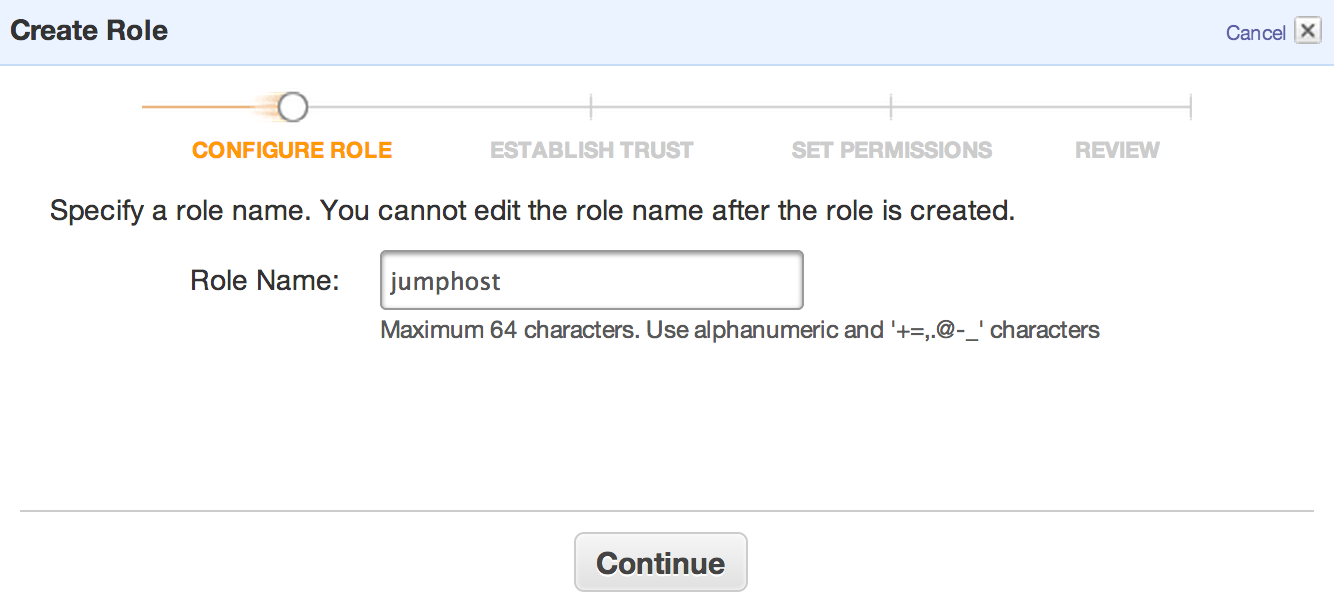
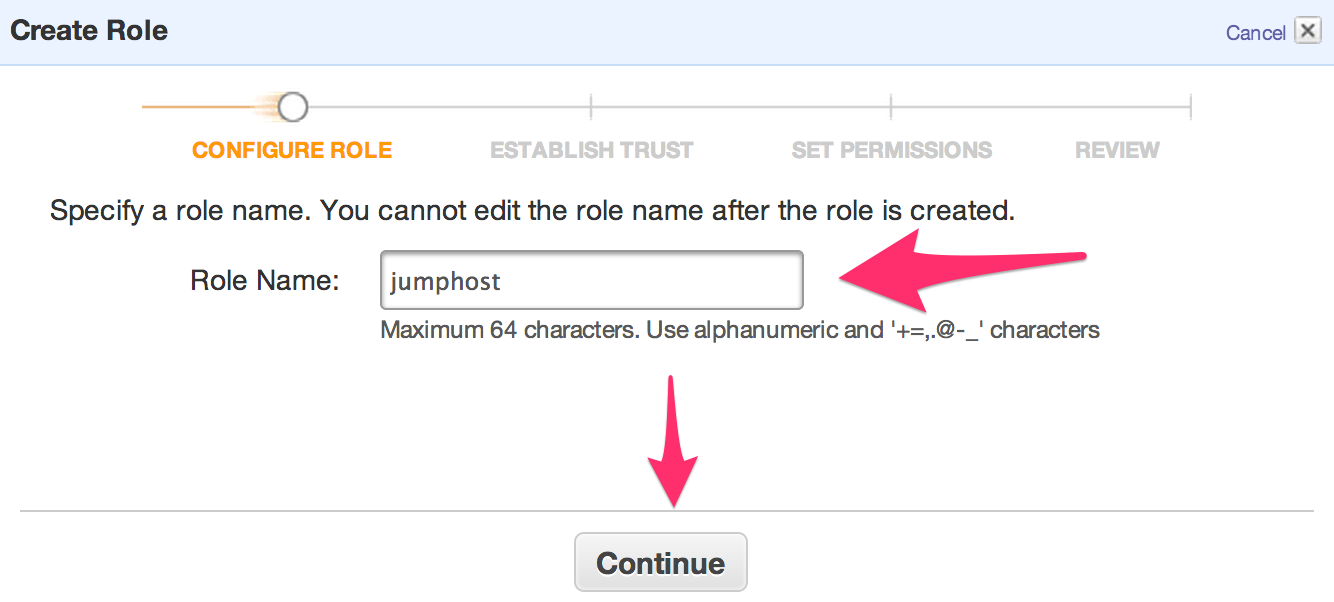
Adding arrows.

Changed region(s): [[0.6147, 0.3887, 0.8298, 0.5382], [0.4918, 0.6279, 0.5225, 0.8372]]

diff --git a/tutorial/Eureka.md b/tutorial/Eureka.md
@@ -24,7 +24,7 @@ Everything from the Health Check URL to the port numbers can stay the same, just
 3. Follow "Create an ELB", using the name "eureka" instead of "asgard". And instead of HTTP:7001/healthcheck for the Health Check URL, use "HTTP:7001/api/v2/view/instances;_limit=1". The protocol and port are the same, but the path is different.
 4. Follow "Create Auto Scaling Group" using the name "eureka" instead of "asgard".
 5. Follow "View instance" to get the DNS Name for eureka's ELB, i.e. _eureka--frontend_. It can Eureka quite a few minutes to start up, because it is trying find other instances.
-6. Using that DNS Name, visit _http://<ELB DNS name>/_
+6. Using that DNS Name, visit _http://<ELB DNS name>/_. ![](images/Eureka.png)
 
 Review <a href="https://github.com/Netflix/eureka/wiki/Eureka-REST-operations" target="_blank">Eureka's REST API</a> for further documentation.
 

diff --git a/tutorial/FoundationAMI.md b/tutorial/FoundationAMI.md
@@ -10,5 +10,5 @@ This gives a snapshot that was never previously started, i.e. there are no reman
 1. View <a href="https://console.aws.amazon.com/ec2/v2/home?region=us-west-2#Instances:" target="_blank">Instances</a> page. Which can also be accessed from the _Services | EC2 | Instances_. ![](images/instances.png)
 2. With your instance selected in [Step 4](Jumphost.md), pull down from the "Actions" menu bar and select “Create Image”. ![](images/create-image.png)
 3. In the dialog that comes up, Give it an "Image Name" of “ubuntu-foundation” and keep the defaults for the rest of the fields. ![](images/create-image-name.png)
-4. Click "Create Image". ![](images/create-image-final.png)
-5. On following dialog, you can just "Close" it. 
+4. Click "Create Image".
+5. On following dialog, you can just "Close" it. ![](images/create-image-final.png) 
